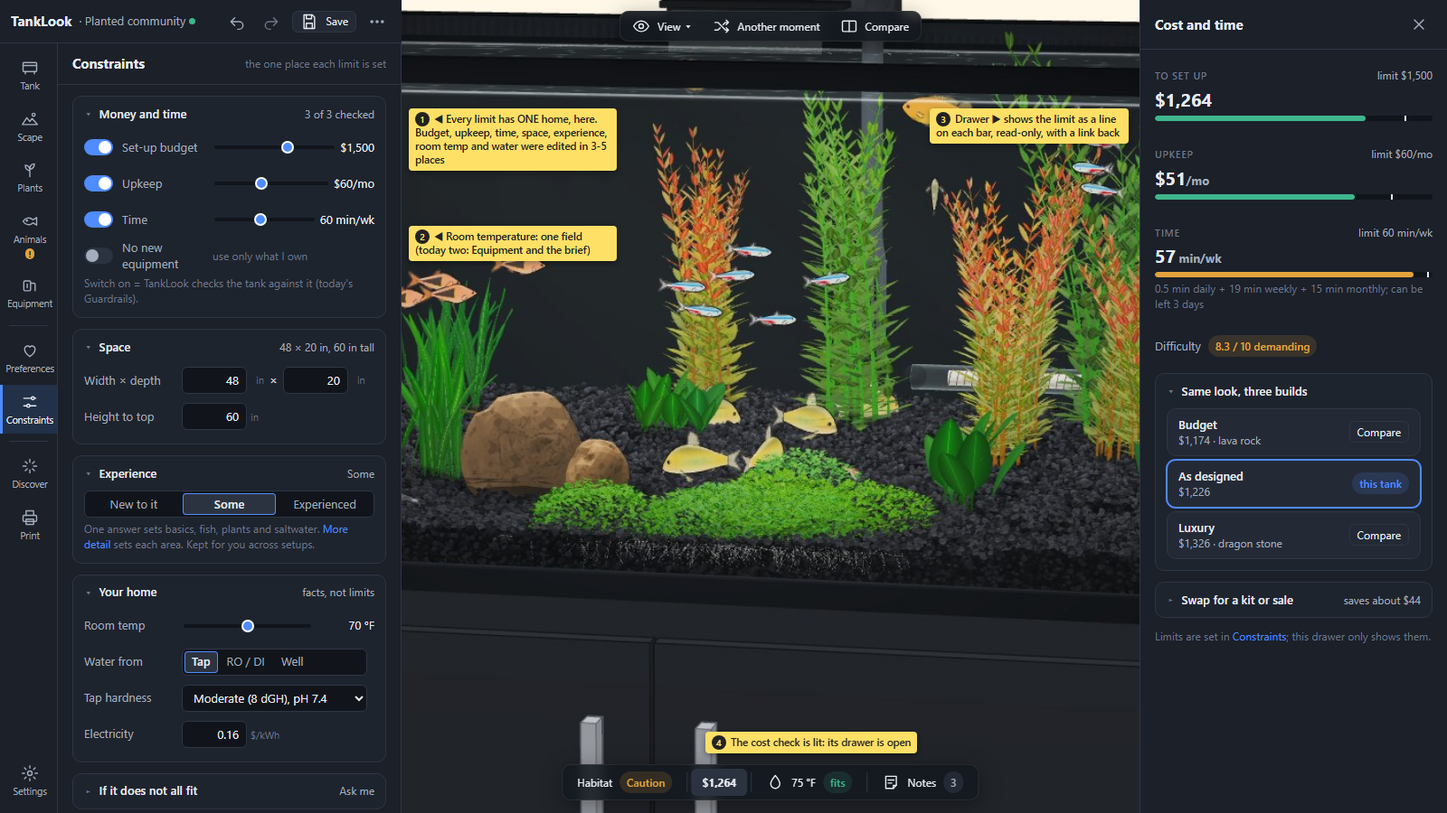
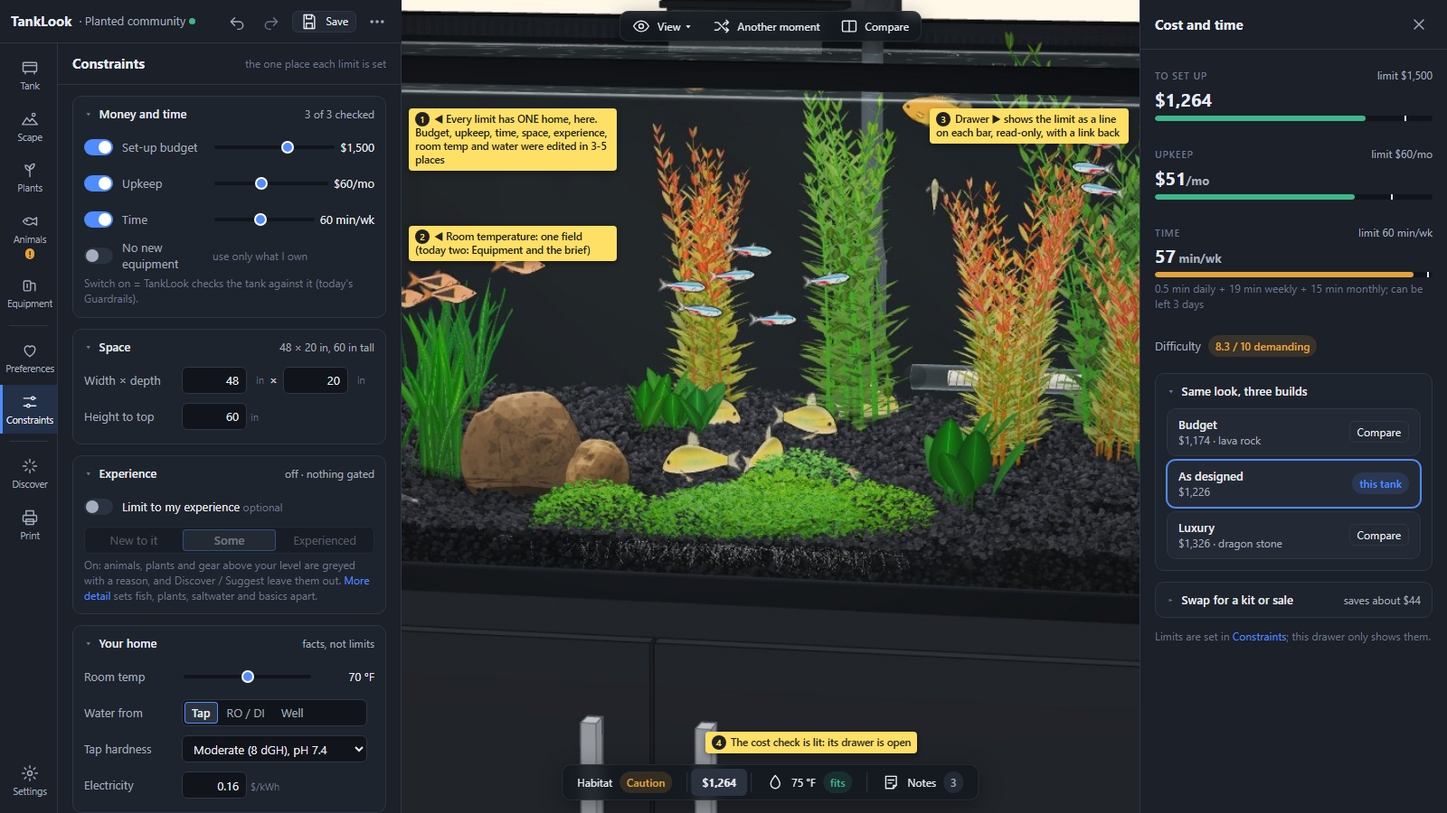
UI2: Nathan's decision-1 answers (11-13): every-level user, six jobs, care guidance out of scope
1 rewritten (user, jobs Plan / Evaluate / Explore / Learn / Best fit / Money, out-of-scope
list) + 1a how the UI adapts without a beginner mode; Build plan preset / sheet cut; A/B
screen kept as Discover > This or that (feeding best-fit search = decision 15); experience
is an optional constraint gating animals, plants and gear (3, P10 with the missing plant /
gear difficulty data, decision 16). Shots 04 and 08 updated.

diff --git a/research/design/ui2/08-print-shopping-list.html b/research/design/ui2/08-print-shopping-list.html
@@ -5,7 +5,7 @@
   .app { display: grid; height: 100vh; grid-template-columns: var(--rail-w) var(--panel-w) 1fr; grid-template-rows: var(--header-h) 1fr; grid-template-areas: "head head view" "rail panel view"; }
   .app > header { grid-area: head; } .app > .rail { grid-area: rail; } .app > .panel { grid-area: panel; }
   .desk { grid-area: view; background: #3a3f48; overflow: hidden; display: grid; justify-items: center; padding-top: 22px; }
-  .presets { display: grid; grid-template-columns: 1fr 1fr; gap: var(--s2); }
+  .presets { display: grid; grid-template-columns: 1fr 1fr 1fr; gap: var(--s2); }
   .preset { padding: var(--s2) var(--s3); }
   .tick { display: flex; align-items: center; gap: var(--s2); min-height: 30px; }
   .box { width: 16px; height: 16px; border-radius: 4px; border: 1.5px solid var(--text-3); display: inline-grid; place-items: center; font-size: 11px; }
@@ -32,14 +32,13 @@ const tk = (on, l, h = '') => `<div class="tick"><span class="box ${on ? 'on' : 
 const r = (q, n, w, p) => `<tr><td class="q">${q}</td><td>${n}</td><td class="w">${w}</td><td class="p">${p}</td></tr>`;
 document.getElementById('app').innerHTML = apphead() + rail('print', {animals: '!'}) + `
 <section class="panel">
-  <div class="sec-head"><h2>Print</h2><span class="hint">one page builder, four presets</span></div>
+  <div class="sec-head"><h2>Print</h2><span class="hint">one page builder, three presets</span></div>
   <div class="sec-body">
     <div class="cap">What to print</div>
     <div class="presets">
       <div class="card preset sel"><div class="t">Shopping list</div><div class="m">what to buy, what you have</div></div>
-      <div class="card preset"><div class="t">Setup sheet</div><div class="m">steps, bags, rock, layout</div></div>
+      <div class="card preset"><div class="t">Setup sheet</div><div class="m">bags, rock, layout, amounts</div></div>
       <div class="card preset"><div class="t">Full report</div><div class="m">picture, checks, costs, notes</div></div>
-      <div class="card preset"><div class="t">Build plan</div><div class="m">order of work, by week</div></div>
     </div>
     <div class="group open"><div class="gh">Parts <span class="sum">7 of 9</span></div><div class="gb">
       ${tk(1, 'Tank and stand')}${tk(1, 'Equipment')}${tk(1, 'Substrate and rock', 'bag size 20 lb')}${tk(1, 'Plants')}${tk(1, 'Animals')}
@@ -68,7 +67,7 @@ document.getElementById('app').innerHTML = apphead() + rail('print', {animals: '
 </div></div>`;
 </script>
 <div style="position:absolute;inset:0;pointer-events:none">
-  <div class="note" data-n="1" style="top:100px;left:452px;max-width:200px">&#9664; One Print section replaces Report, Setup sheet, Plan sheet and Build plan sheet (four pages, five buttons today)</div>
+  <div class="note" data-n="1" style="top:100px;left:452px;max-width:200px">&#9664; One Print section replaces Report, Setup sheet and Plan sheet. Build plan dropped: care guidance is out of scope (Nathan 11-13)</div>
   <div class="note" data-n="2" style="top:330px;left:452px;max-width:200px">&#9664; A preset just ticks parts; any tick can change</div>
   <div class="note" data-n="3" style="top:690px;right:20px;max-width:200px">Already owned: its own group at $0, not in the total (shot 05's owned heater)</div>
   <div class="note" data-n="4" style="top:40px;right:20px;max-width:200px">Live paper preview where the tank view was; numbers are mockup figures</div>

diff --git a/research/design/ui2/04-constraints-and-cost.html b/research/design/ui2/04-constraints-and-cost.html
@@ -30,9 +30,10 @@ document.getElementById('app').innerHTML = apphead() + rail('limits', {animals: 
       <div class="row"><span class="lbl">Width &times; depth</span><div style="display:flex;gap:6px;align-items:center"><input class="input num" value="48"><span class="unit">in</span> &times; <input class="input num" value="20"><span class="unit">in</span></div><span></span></div>
       <div class="row"><span class="lbl">Height to top</span><div><input class="input num" value="60"><span class="unit">in</span></div><span></span></div>
     </div></div>
-    <div class="group open"><div class="gh">Experience <span class="sum">Some</span></div><div class="gb">
-      <div class="seg full"><button>New to it</button><button class="on">Some</button><button>Experienced</button></div>
-      <div class="hint">One answer sets basics, fish, plants and saltwater. <span class="link">More detail</span> sets each area. Kept for you across setups.</div>
+    <div class="group open"><div class="gh">Experience <span class="sum">off &middot; nothing gated</span></div><div class="gb">
+      <div class="lim" style="grid-template-columns:34px 1fr"><span class="toggle"></span><span>Limit to my experience <span class="hint">optional</span></span></div>
+      <div class="seg full" style="opacity:.4"><button>New to it</button><button class="on">Some</button><button>Experienced</button></div>
+      <div class="hint">On: animals, plants and gear above your level are greyed with a reason, and Discover / Suggest leave them out. <span class="link">More detail</span> sets fish, plants, saltwater and basics apart.</div>
     </div></div>
     <div class="group open"><div class="gh">Your home <span class="sum">facts, not limits</span></div><div class="gb">
       <div class="row"><span class="lbl">Room temp</span><input class="slider" type="range" value="50"><span class="val">70 &deg;F</span></div>

diff --git a/research/design/ui2-screen-map.md b/research/design/ui2-screen-map.md
@@ -9,56 +9,61 @@ Design only, no app code. Built from `research/design/ui1-inventory.md` (UI1, bu
 | `research/screens/UI2/01-editor-desktop.png` | Main editor, 1600 x 900: header, rail, Tank section open (a commercial tank: its size is read-only), view controls top middle, check bar along the bottom |
 | `research/screens/UI2/02-editor-phone.png` | Same at 390 x 844: tank on top, check strip, Animals as a bottom sheet, tab bar |
 | `research/screens/UI2/03-split-desktop.png` | Compare: two tanks, one shared control cluster over the seam, "Editing A / B / Both" in the panel, each tank its own check bar |
-| `research/screens/UI2/04-constraints-and-cost.png` | Constraints section open (the one home of every limit) with the Cost and time drawer open on the right |
+| `research/screens/UI2/04-constraints-and-cost.png` | Constraints section open (the one home of every limit; Experience shown as an optional constraint, off) with the Cost and time drawer open on the right |
 | `research/screens/UI2/05-equipment-heater.png` | Equipment > Heater: **I own** and **Buy** groups, one item locked "Use this one for sure" (Nathan 11-13) |
 | `research/screens/UI2/06-tank-picker.png` | Tank > Choose a tank: **Custom tanks** and **Commercial tanks** groups, both closed at first (Nathan 11-13); `06b-tank-picker-open.png` = the same with both open |
 | `research/screens/UI2/07-custom-tank-maker.png` | Custom tank maker as **its own workspace**: an empty tank on a plain floor (real render), dimension labels, gallons and filled weight, price estimate with "how" and your own price; the setup is untouched until Save |
-| `research/screens/UI2/08-print-shopping-list.png` | Print section: four presets (Shopping list selected), part ticks, Print / .txt / .csv, live paper preview with the **Already owned** group at $0 (decision 5) |
+| `research/screens/UI2/08-print-shopping-list.png` | Print section: three presets (Shopping list selected; Build plan dropped 11-13), part ticks, Print / .txt / .csv, live paper preview with the **Already owned** group at $0 (decision 5) |
 
 ## 1. Who and what for
 
-**The user:** someone planning a real home aquarium (first tank, or a hobbyist planning the next one) who wants to see it true to life in their own room, know the animals will be well, and know what it costs in money and time before buying anything. I found no sentence of Nathan's naming the user; this is read from what he has asked for (room and person in the scene, finished price per size, owned gear, limits, welfare checks). Decision 1 asks him to confirm or correct it.
+**The user (Nathan 11-13, `research/design/w1-ab-context.md` "Nathan's answers"):** "anyone who owns or is interested in aquariums", at **every** experience level. The app adapts so a brand-new hobbyist and someone with 20 tanks both feel at home and both get something useful (how: §1a). It offers what an AI chatbot cannot: a true-to-life design you can change, with checks and costs worked out on it.
 
 **The jobs (everything on screen serves one):**
 
 | Job | One line |
 |---|---|
-| J1 Start | Get to a tank on screen fast: a ready-made, a kit, a blank tank of my size in my room, or a tank built round an animal I want. |
-| J2 Build | Change anything by hand (tank, stand, scape, plants, animals, gear) and see it drawn true. |
-| J3 Check | Know whether it is good for the animals and what it asks of me ($ set-up, $ / month, minutes / week), against my limits. |
-| J4 Compare | Put two versions side by side and see what differs (budget vs luxury, my idea vs a suggestion). |
-| J5 Take away | Save, share, and print what to buy and how to set it up. |
+| **Plan** | Design a tank that fits my needs, preferences and limits, and that I like: start from anything, change anything, see it drawn true. |
+| **Evaluate** | Know whether it works: good for the animals and plants, what it asks of me ($ set-up, $ / month, minutes / week), against my limits; two versions side by side. |
+| **Explore** | Be inspired: ideas I would not have had (Discover, starters, the A/B "this or that" screen). |
+| **Learn** | Understand aquariums through my own design: every grey, warning and number says why (light, water, space, tankmates). |
+| **Best fit** | Find the best tank for me: the size, setup and stocking that suit my room, taste and limits (picker, Suggest, Discover). |
+| **Money** | An accurate budget; deal sweeps; cheaper gear that does the same job; start from, or convert to, a bundle when it saves money. Ends in the shopping list. |
 
-Ideas (Discover, Suggest) are not a job of their own: they are a faster way to do J1 and J2, so they sit inside them.
+**Out of scope (Nathan 11-13):** care and build-plan guidance (how to cycle, when to add animals, how to look after fish). So: the **Build plan** print preset and the Build plan sheet are dropped (§2b row 18), the Coach stays dropped, and the Notes drawer keeps verdicts on the design (fits / does not fit, and why) but no how-to-care text. Time per week and "can be left N days" stay: they evaluate the design, they are not care instructions.
+
+### 1a. How the UI adapts to the user's level (no separate beginner mode)
+
+One interface; it adapts through **defaults, what is shown first, and memory**, never by hiding features behind a mode. (1) **Defaults help the new user and cost the expert nothing:** "Fits this tank" is on in the Animals and Plants lists, the equipment preset ladder fills sensible gear, and a new tank shows the 5-tick **Get started** checklist, which can be dismissed for good. (2) **Summary first, detail one click away:** every group folds to a one-line summary (shot 01), the check bar shows verdict pills while the numbers live in the drawers (shots 01, 04), and advanced groups (Terrain, Light map / PAR, glass, custom substrate blends) start closed. (3) **The app remembers what you open:** groups and filters stay as you left them (per browser), so someone who always works in Terrain or the light map opens them once. (4) **Fast paths for experienced users:** typed values on every slider, search in every library, multi-select, keyboard shortcuts, the custom tank maker, "I own" lists. (5) **Experience is an optional constraint, off by default** (§3; shot 04): someone who wants a lower chance of failure turns it on and lists grey by their level; someone who wants a hard tank leaves it off and nothing is gated. (6) **Every grey and warning says why in one line** (shots 02, 03: "tight with 2"), which teaches the beginner and confirms the expert.
 
 ## 2. Screen map
 
-**Summary.** One editor screen, always the same shape: **header** (name, Undo / Redo / Save, file menu) over a **rail** of section icons; one **panel** showing one section at a time; the **viewer** with one shared control cluster at the top middle and one **check bar** at the bottom (Habitat, Cost, Water, Notes); clicking a check opens a **drawer** on the right that pushes the view aside instead of covering the tank. Plus one Start screen, a few dialogs and one Print screen. Today's 8-9 menu sections + ~60 overlays become 9 sections, 4 drawers, 1 Start screen, 4 dialogs, 1 Print screen. Of UI1's 56 rows: 27 KEEP (most moved), 20 MERGE, 5 HIDE, 4 CUT.
+**Summary.** One editor screen, always the same shape: **header** (name, Undo / Redo / Save, file menu) over a **rail** of section icons; one **panel** showing one section at a time; the **viewer** with one shared control cluster at the top middle and one **check bar** at the bottom (Habitat, Cost, Water, Notes); clicking a check opens a **drawer** on the right that pushes the view aside instead of covering the tank. Plus one Start screen, a few dialogs and one Print screen. Today's 8-9 menu sections + ~60 overlays become 9 sections, 4 drawers, 1 Start screen, 4 dialogs, 1 Print screen. Of UI1's 56 rows: 28 KEEP (most moved), 19 MERGE, 4 HIDE, 5 CUT.
 
 ### 2a. The new screens
 
 | New surface | Job | How you get there | Holds |
 |---|---|---|---|
-| **Start** | J1 | first visit; header ... > New | four doors: Blank tank (kind, then the tank picker in your room), Starters and kits (starters, deals and bundles as tabs), Open saved, From an animal I want |
+| **Start** | Plan, Explore | first visit; header ... > New | four doors: Blank tank (kind, then the tank picker in your room), Starters and kits (starters, deals and bundles as tabs), Open saved, From an animal I want |
 | **Editor** | all | after Start; resume | header + rail + panel + viewer + check bar + drawer |
-| Header | J5 | always (top of the panel column) | TankLook, project name (click to rename), saved dot, Undo, Redo, Save, `...` = New / Open / Save as / Share link / Download |
-| Rail | J2 | always, also when the panel is folded | Tank, Scape, Plants, Animals, Equipment / Preferences, Constraints / Discover, Print / Settings (bottom): 9 sections + Settings |
-| Section **Tank** | J2 | rail | **Tank model**: either a **commercial tank** (catalogue product; shape, size, glass and rim fixed, shown read-only) or a **custom tank** (yours, from the custom tank maker). The picker (docked in the panel, live in the room) has two groups, Custom tanks and Commercial tanks, **both closed at first** (each header shows what is inside), plus New custom tank; any tank row can carry the Owned pill and the "Use this one for sure" lock, as in Equipment. To change a product's size: "Make a custom tank from this" (a copy), never an edit of the product. **Stand** with I own / Buy groups. Then Sits on (floor / stand / my own furniture), Lid and top, Background, **Room** (wall, ceiling, person) |
-| **Custom tank maker** (own workspace) | J2 | Tank > New custom tank, Edit on a custom tank, "Make a custom tank from this" on a commercial one | full-window workspace over the editor: an **empty tank on a plain floor** (no stand, gear, scape or room), dimension labels, gallons, filled weight, footprint. Name, shape, size, glass, rim, Price (estimate + one-line "how" + **Use my own price**), I own this tank. Cancel / Save to my tanks / Save and use in this setup; optional **Preview in my setup** (shows it in your room for a moment, then returns; recommended so the size can be judged against the room). The current setup is not edited while the maker is open |
-| Section **Scape** | J2 | rail | Substrate (type, blend, brush), Terrain (slopes, corners), Hardscape and Decor library, placed pieces |
-| Section **Plants** | J2 | rail | library (grayed by light), placed plants, growth over time |
-| Section **Animals** | J2 | rail | search, filters ("Fits this tank" on by default in Guided), stocking list with counts, Water look (level, tint) |
-| Section **Equipment** | J2 | rail | preset ladder (Walstad ... high-tech) at the top; then one **sub-menu per category** (Filter, Heater, Light, CO2, Air, UV, ... ; saltwater adds its own). Each category: the item in use now, then two groups, **I own** (your items, add your own, $0) and **Buy** (catalogue products), and on every item an independent **Use this one for sure** lock. Light also holds Lighting details, Light map / PAR |
-| Section **Preferences** | J1/J2 | rail | looks you like (cards, browse looks), don't-want list (R26 split) |
-| Section **Constraints** | J3 | rail; every "limit" line elsewhere links here | Money and time (incl. **No new equipment**: a spending limit), Space, Experience, Your home (room temp, water, electricity), If it does not all fit, "Fill in what I left open" (Suggest) |
-| Section **Discover** | J1/J2 | rail; "Ideas for ..." button in each section header opens it scoped to that section | Finish my setup / fill this section / remix; preview in the viewer; Apply / Keep |
-| Section **Print** | J5 | rail | one page builder with presets: Shopping list, Setup sheet, Full report, Build plan; tick parts; Print / .txt / .csv. The shopping list has an **Already owned** group ($0) apart from what to buy |
+| Header | Plan | always (top of the panel column) | TankLook, project name (click to rename), saved dot, Undo, Redo, Save, `...` = New / Open / Save as / Share link / Download |
+| Rail | all | always, also when the panel is folded | Tank, Scape, Plants, Animals, Equipment / Preferences, Constraints / Discover, Print / Settings (bottom): 9 sections + Settings |
+| Section **Tank** | Plan, Best fit | rail | **Tank model**: either a **commercial tank** (catalogue product; shape, size, glass and rim fixed, shown read-only) or a **custom tank** (yours, from the custom tank maker). The picker (docked in the panel, live in the room) has two groups, Custom tanks and Commercial tanks, **both closed at first** (each header shows what is inside), plus New custom tank; any tank row can carry the Owned pill and the "Use this one for sure" lock, as in Equipment. To change a product's size: "Make a custom tank from this" (a copy), never an edit of the product. **Stand** with I own / Buy groups. Then Sits on (floor / stand / my own furniture), Lid and top, Background, **Room** (wall, ceiling, person) |
+| **Custom tank maker** (own workspace) | Plan | Tank > New custom tank, Edit on a custom tank, "Make a custom tank from this" on a commercial one | full-window workspace over the editor: an **empty tank on a plain floor** (no stand, gear, scape or room), dimension labels, gallons, filled weight, footprint. Name, shape, size, glass, rim, Price (estimate + one-line "how" + **Use my own price**), I own this tank. Cancel / Save to my tanks / Save and use in this setup; optional **Preview in my setup** (shows it in your room for a moment, then returns; recommended so the size can be judged against the room). The current setup is not edited while the maker is open |
+| Section **Scape** | Plan | rail | Substrate (type, blend, brush), Terrain (slopes, corners), Hardscape and Decor library, placed pieces |
+| Section **Plants** | Plan, Learn | rail | library (grayed by light), placed plants, growth over time |
+| Section **Animals** | Plan, Learn | rail | search, filters ("Fits this tank" on by default in Guided), stocking list with counts, Water look (level, tint) |
+| Section **Equipment** | Plan, Money | rail | preset ladder (Walstad ... high-tech) at the top; then one **sub-menu per category** (Filter, Heater, Light, CO2, Air, UV, ... ; saltwater adds its own). Each category: the item in use now, then two groups, **I own** (your items, add your own, $0) and **Buy** (catalogue products), and on every item an independent **Use this one for sure** lock. Light also holds Lighting details, Light map / PAR |
+| Section **Preferences** | Plan, Best fit | rail | looks you like (cards, browse looks), don't-want list (R26 split) |
+| Section **Constraints** | Evaluate, Best fit, Money | rail; every "limit" line elsewhere links here | Money and time (incl. **No new equipment**: a spending limit), Space, Experience, Your home (room temp, water, electricity), If it does not all fit, "Fill in what I left open" (Suggest) |
+| Section **Discover** | Explore, Best fit | rail; "Ideas for ..." button in each section header opens it scoped to that section | Finish my setup / fill this section / remix; preview in the viewer; Apply / Keep |
+| Section **Print** | Money, Plan | rail | one page builder with presets: Shopping list, Setup sheet, Full report (Build plan dropped: care guidance is out of scope); tick parts; Print / .txt / .csv. The shopping list has an **Already owned** group ($0) apart from what to buy |
 | **Settings** | - | rail bottom | US / Metric, Rules (Guided / Sandbox), Graphics, Help, Scene data (JSON) |
-| Viewer cluster | J2/J4 | always, top middle | View (camera, show, viewpoint map, export PNG), Another moment, Compare / Views linked / End compare |
-| Check bar | J3 | always, bottom of each view | Habitat (verdict pill), Cost ($ set-up, $/mo, min/wk), Water (deg F, fits), Notes (count) |
-| Drawers | J3 | click a check; click an item in the tank | **Habitat check**, **Cost and time**, **Water**, **Notes**, **Selection** (selected animal / piece: numbers, sex, copies, delete). One open at a time. |
-| Dialogs | J1/J5 | as needed | Save as / Share, Replace this project?, Guardrail-off list (inside Constraints, not a dialog), Sump size (inside Equipment) |
-| Toasts | J2 | after an edit | price notice (edit lost a sale price, Undo), owned gear no longer fits (link to that Equipment category) |
+| Viewer cluster | Plan, Evaluate | always, top middle | View (camera, show, viewpoint map, export PNG), Another moment, Compare / Views linked / End compare |
+| Check bar | Evaluate, Learn | always, bottom of each view | Habitat (verdict pill), Cost ($ set-up, $/mo, min/wk), Water (deg F, fits), Notes (count) |
+| Drawers | Evaluate, Learn, Money | click a check; click an item in the tank | **Habitat check**, **Cost and time**, **Water**, **Notes**, **Selection** (selected animal / piece: numbers, sex, copies, delete). One open at a time. |
+| Dialogs | Plan | as needed | Save as / Share, Replace this project?, Guardrail-off list (inside Constraints, not a dialog), Sump size (inside Equipment) |
+| Toasts | Plan, Money | after an edit | price notice (edit lost a sale price, Undo), owned gear no longer fits (link to that Equipment category) |
 
 ### 2b. Where each of today's surfaces goes (every UI1 row)
 
@@ -81,7 +86,7 @@ Ideas (Discover, Suggest) are not a job of their own: they are a faster way to d
 | 15 | My equipment dialog | MERGE | into the **I own** group of each Equipment category (and Tank / Stand in the Tank section); "No new equipment" moves to Constraints. Nathan 11-13 replaced the 11-05 "separate menu" with this |
 | 16 | Setup sheet | MERGE | Print > Setup sheet preset |
 | 17 | Report | MERGE | Print > Full report preset |
-| 18 | Plan sheet / Build plan sheet | MERGE | Print > Build plan preset |
+| 18 | Plan sheet / Build plan sheet | CUT | care / build-order guidance is out of scope (Nathan 11-13); the Plan sheet's shopping part is the Shopping list preset |
 | 19 | Suggest a setup | KEEP | Constraints > "Fill in what I left open" (limits read from Constraints, no own fields) |
 | 20 | Why-not card | KEEP | inside Suggest results |
 | 21 | Setup brief card | MERGE | its lines become the group summaries of Preferences and Constraints |
@@ -116,12 +121,12 @@ Ideas (Discover, Suggest) are not a job of their own: they are a faster way to d
 | 50 | Phone layout | KEEP | redesigned (§6) |
 | 51 | Guided setup (dormant) | HIDE | decision 4: becomes a "Get started" checklist in the panel that opens the real sections |
 | 52 | Explore Complete Setups (dormant) | HIDE | decision 4: merge into Discover "Whole tank" |
-| 53 | A/B Discover (`?ab=1`) | HIDE | stays behind `?ab=1`; Nathan 11-13 keeps the decision open (not dropped yet) |
+| 53 | A/B Discover (`?ab=1`) | KEEP | Nathan 11-13: "a very old feature and definitely should stay". Lives as **Discover > This or that** (two habitats side by side, Prefer A / B, Make A mine), no `?ab=1` needed. Open: whether it feeds the automated best-fit search (decision 15) |
 | 54 | Coach / Guide me (dormant) | CUT | decision 4: the checklist replaces it |
 | 55 | Animal-first stocking (dormant) | HIDE | decision 4: Start > "From an animal I want" |
 | 56 | Sandbox flags bar | CUT | flag already off; rules switch is in Settings |
 
-Count: KEEP 27, MERGE 20, HIDE 5, CUT 4 = 56. The three dormant HIDE rows (51, 52, 55) get a door only if Nathan says yes (decision 4).
+Count: KEEP 28, MERGE 19, HIDE 4, CUT 5 = 56. HIDE = row 43 (viewpoint map behind a switch) and the dormant rows 51, 52, 55, which get the doors decision 4 approved (11-13).
 
 ## 3. One home per setting
 
@@ -132,7 +137,7 @@ Rule (Nathan 2026-11-05, kept): **a shortcut may open the home; it may not hold 
 | Set-up budget | quick prefs, Your limits, cost Guardrails, Suggest (4) | Constraints > Money and time | Cost drawer (limit line on the bar), Suggest, Print |
 | Upkeep $ / month, time / week | same 4 | Constraints > Money and time | Cost drawer |
 | Space (W x D x H) | Your limits, Habitat "Set my space", cost panel, Suggest (4) | Constraints > Space | Habitat drawer, tank picker (filters by it), Suggest |
-| Experience | **two settings that can disagree:** (a) brief `preferences.experience` 0-2 (Your limits; drives `layout.expertise` animal graying, starter / Another moment stocking via `whyAnimal`, Suggest ranking and `experienceNote`); (b) profile `UserProfile.skill` per area, fundamentals / fish / planted / salt (+ terrarium), 0-2 (cost panel Your situation; drives the difficulty bar `skillMul`, `whyAnimal` warnings `demand/engine.ts:201`, monthly losses `engine.ts:269`); plus hidden Care level | Constraints > Experience. **Model: per-area levels** (fundamentals, fish, planted, salt; terrarium hidden in aquarium scope), each New to it / Some / Experienced (0-2, the scale both use today). The panel shows ONE answer that sets every area; "More detail" opens the per-area rows (then the one answer reads "Mixed"). It is about the person, so it is stored once per browser and applies to every setup (not inside a scene or share link). **Every consumer reads the area that fits:** an animal's checks use its area (fish / salt) blended with fundamentals the way `skillMul` already does; plants use planted; Suggest ranks each candidate by its area; `layout.expertise` and `experienceNote` read the same | Cost drawer (difficulty), Animals list (graying), Suggest notes |
+| Experience | **two settings that can disagree:** (a) brief `preferences.experience` 0-2 (Your limits; drives `layout.expertise` animal graying, starter / Another moment stocking via `whyAnimal`, Suggest ranking and `experienceNote`); (b) profile `UserProfile.skill` per area, fundamentals / fish / planted / salt (+ terrarium), 0-2 (cost panel Your situation; drives the difficulty bar `skillMul`, `whyAnimal` warnings `demand/engine.ts:201`, monthly losses `engine.ts:269`); plus hidden Care level | Constraints > Experience, an **optional constraint, off by default** (Nathan 11-13: "a possible constraint that the user can set if they choose to"). **Off:** nothing is gated by experience; the difficulty bar and expected losses are shown for an average keeper ("Some") and say so. **On:** per-area levels (fundamentals, fish, planted, salt; terrarium hidden in aquarium scope), each New to it / Some / Experienced; one answer sets every area, "More detail" sets each. It gates **animals, plants and gear** (grey with a one-line why; Discover / Suggest leave gated items out), and the difficulty bar and losses use the real levels. Stored once per browser (about the person, not the tank) | Cost drawer (difficulty), Animals / Plants / Equipment lists (graying when on), Suggest notes |
 | Room temperature | Equipment `#tRoom`, Your limits; **stored twice** (`tech.roomC`, brief) | Constraints > Your home | Equipment heater row ("room 70 deg F, edit"), Water drawer. Engine: store once in the brief, migrate old saves (step P5) |
 | Water source, hardness, pH | cost panel, Your limits | Constraints > Your home | Water drawer |
 | Electricity $/kWh | cost panel | Constraints > Your home | Cost drawer |
@@ -156,7 +161,7 @@ Rule (Nathan 2026-11-05, kept): **a shortcut may open the home; it may not hold 
 | Guided setup (World / Equipment / Limits / Starting point) | 755 | **MERGE** into a "Get started" checklist at the top of the panel for a new tank: 5 ticks (tank, scape, plants, animals, gear), each opens the real section | Nathan 11-05: "Guided setup becomes the tool walking you through the EXISTING menus"; a wizard is a second home for every setting |
 | Visual Discovery (browse looks grid) | 513 | **MERGE** into Preferences > Browse looks | already agreed 11-05 (folded into Quick Setup's browse view) |
 | Explore Complete Setups | 623 | **MERGE** into Discover > "Whole tank" | same job as Discover's "Finish my setup" with a gallery view |
-| A/B Discover screen (`?ab=1`) | 1,123 | **OPEN** (Nathan 11-13: not dropped yet); stays behind `?ab=1`, untouched by the new shell until he decides | recommendation was drop: Compare (split) does two tanks side by side with the real editor |
+| A/B Discover screen (`?ab=1`) | 1,123 | **KEEP** (Nathan 11-13) as Discover > "This or that" | an old feature he wants kept; whether its picks feed the automated best-fit search is decision 15 |
 | Coach / Guide me | 353 | **DROP** | the checklist does its job without a second voice |
 | Animal-first stocking ("An animal I want") | 386 + 5 files | **CARRY** as Start > "From an animal I want" and Animals > "Plan around this animal" | a real way people start a tank; logic is pure and tested (`stockPlanLogic`, 25 tests) |
 | Quick Setup block (Style, Shuffle, densities, care gates) | in `panels.ts` | **DROP** the block; parts move (row 35) | each part has a better home |
@@ -211,7 +216,7 @@ The new shell lives beside the old one behind `?ui=2` (own `index2.html` entry, 
 | P8 Gear model: per category an owned list (in the brief), the item in use, and a "use for sure" lock per item; Discover / Suggest / generator read the lock (must use) and the owned list (preferred, $0). Folds `ownedGear.ts` `applyOwned` / `syncEquipment` and the owned flags on scene gear into it; old saves migrate | `ownedGear.ts`, `scene/tech`, Discover locks | `scene/gearOwn.ts` | M |
 | P9 Custom tank library: a custom-tank spec (shape, L / H / D, shape dims, glass, rim, name) saved per browser across setups (LS `tanklook.customTanks`, like the scene library); a setup holds its own copy plus the library id and version. Library edit: setups keep their copy and show "Updated in my tanks: use the new version?". Library delete: setups keep their copy ("Save to my tanks again"). Share link / file carry the copy. Product tanks become read-only (P1's rules apply only in the maker). **Migration:** a saved scene whose dimensions differ from its product, or that has no product, gets an auto-named custom tank on load (e.g. "Custom 36 x 18 x 16 in (from Aqueon 40 breeder)"), added to the library and referenced. **Maker:** its own workspace with its own scratch scene (empty tank, plain floor); the setup's Store is not touched until Save, Cancel discards the scratch scene; Preview swaps the tank into the setup's view without an undo entry and swaps back. **Price:** the spec carries an optional `priceUsd` (the user's own price); the demand engine uses it as the tank row price when present (marked as the user's figure), otherwise today's estimate. **Engine follow-up (not now):** the estimate should count glass thickness, low-iron, rimless and shape (bow, corner, ...), not just gallons | `panels.ts` `setTank` / `shapeDims`, `tankPick.ts`, `scene/` tank | `scene/customTank.ts` | M |
 | P5 One home per limit in the data: profile from LS `tanklook.demand` into the brief (except experience, which stays per browser: P10); room temp stored once; migrate old saves | `demandPanel.ts`, `scene/tech.ts`, brief | `scene/brief.ts` | M |
-| P10 One experience model: delete brief `preferences.experience` and `layout.expertise` as stored values; every consumer (`whyAnimal` gating, starter / Another moment stocking, Suggest ranking, `experienceNote`, `skillMul`, losses) takes the per-area `skill` from one `experienceOf(area)` read. **Migration:** a saved profile with any non-zero `skill` keeps it (it is the more detailed answer); otherwise a scene's `preferences.experience` sets every area to its value, once, on load; old share links still read `preferences.experience` as a fallback for one release | `scene/brief.ts`, `scene/layout`, `demand/engine.ts`, `demand/suggest.ts`, `demandPanel.ts` | `demand/experience.ts` | M |
+| P10 One optional experience constraint: an on / off switch (off by default) plus per-area `skill`; delete brief `preferences.experience` and `layout.expertise` as stored values; every consumer (`whyAnimal` gating, starter / Another moment stocking, Suggest ranking, `experienceNote`, `skillMul`, losses) reads one `experienceOf(area)` that returns "no gate" when off. **Gating data:** animals have it (`data/care.ts` `care: 1-3` per species). Plants have only a tank-fit check (`scene/plantfit.ts` `whyNot`: light band, CO2 / fertiliser need vs the tank's tech level); **missing:** a per-plant keeper difficulty 1-3 (e.g. carpets, red stems, crypt melt), one value per plant. Gear has **no** difficulty data; **missing:** a small table per gear kind / type (e.g. pressurised CO2, sump, canister, RO/DI, auto top-off, dosing pump, chiller), not per product. Both tables are estimates like `care.ts`. **Migration:** a saved profile with any non-zero `skill` keeps it and turns the constraint on; otherwise a scene's `preferences.experience` > 0 sets every area and turns it on; else off. Old share links read `preferences.experience` as a fallback for one release | `scene/brief.ts`, `scene/layout`, `demand/engine.ts`, `demand/suggest.ts`, `demandPanel.ts`, `scene/plantfit.ts`, gear catalogue | `demand/experience.ts` + `data/plantCare.ts`, `data/gearCare.ts` | M (+ S per data table) |
 | P6 Habitat helpers (`bar`, `topBy`, `tileState`, ...) | `fullnessTile.ts` | `ui/logic/habitat.ts` | S |
 | P7 File ops (library, open example / shared, save / save as) | `panels.ts` 168-494 | `ui/logic/files.ts` | M |
 
@@ -230,7 +235,7 @@ The old shell is switched to call these as they land, so both shells share one c
 | 7 | Scape + Plants + brush / group bars | L | P3 |
 | 8 | View, Settings (units, rules, graphics), Print | M | - |
 | 9 | Compare (split) | L | `sideStore` as is |
-| 10 | Discover + checklist (+ animal-first if yes) | M | - |
+| 10 | Discover (incl. the A/B "This or that" mode) + checklist + animal-first door | M | - |
 | 11 | Phone and tablet pass | M | built mobile-aware from step 1; this is the check |
 | 12 | Flip default to the new shell; `?ui=1` keeps the old for 2 weeks; then delete `index.html` markup, `panels.ts`, old `style.css`, dropped dormant code | M | Nathan's OK |
 
@@ -246,11 +251,11 @@ The old shell is switched to call these as they land, so both shells share one c
 
 | # | Decision | Recommendation | Status |
 |---|---|---|---|
-| 1 | The user and the 5 jobs in §1: right? | Yes as written; correct the user line if you see it differently. | **OPEN**: Nathan wants to investigate further (11-13) |
+| 1 | The user and the jobs in §1 | (was: one planner persona, 5 jobs) | **ANSWERED 11-13**: anyone interested in aquariums, every level, the UI adapts (§1a); jobs Plan / Evaluate / Explore / Learn / Best fit / Money; care guidance out of scope. §1 rewritten |
 | 2 | Layout: rail + one section at a time + check bar at the bottom + right drawer that pushes the view (shots 01, 04)? | Yes. | APPROVED 11-13 |
 | 3 | The single homes in §3, incl. room temperature stored once and the cost panel's Guardrails / Your situation fields moving to Constraints? | Yes. | APPROVED 11-13 |
-| 4 | Dormant features: Guided -> checklist (merge), Visual Discovery -> Preferences (merge), Explore -> Discover (merge), A/B screen (drop), Coach (drop), Animal-first (carry, Start door)? | Yes to all six. | APPROVED 11-13 except the A/B screen: Guided -> checklist, Visual Discovery -> Preferences, Explore -> Discover, drop Coach, keep Animal-first; **A/B taste screen stays OPEN** (not dropped yet) |
-| 5 | Four printable pages become one Print section with four presets? | Yes. | **OPEN**: Nathan wants to see it first; mockup shot 08 (`research/screens/UI2/08-print-shopping-list.png`) |
+| 4 | Dormant features: Guided -> checklist (merge), Visual Discovery -> Preferences (merge), Explore -> Discover (merge), A/B screen (drop), Coach (drop), Animal-first (carry, Start door)? | Yes to all six. | APPROVED 11-13 except the A/B screen: Guided -> checklist, Visual Discovery -> Preferences, Explore -> Discover, drop Coach, keep Animal-first; **A/B taste screen KEPT** (Nathan 11-13: "definitely should stay"), as Discover > This or that |
+| 5 | Four printable pages become one Print section with presets (now three: Build plan dropped, care guidance out of scope)? | Yes. | **OPEN**: Nathan wants to see it first; mockup shot 08 (`research/screens/UI2/08-print-shopping-list.png`) |
 | 6 | Build the new shell with a small UI library (Preact, about 4 KB) instead of hand-wired DOM? It replaces the 420-line `sync()` with components that redraw from the Store. | Yes, Preact; vanilla TS is the fallback if you prefer no new dependency. | APPROVED 11-13 |
 | 7 | Add a DOM test environment (happy-dom) for the new shell, or keep node-only tests + screenshot proof per step? | Node-only + screenshots (keeps test runs light on this machine). | APPROVED 11-13 |
 | 8 | Compare: one "Editing A / B / Both" switch in the panel instead of an Edit tick per tab (shot 03)? | Yes. | APPROVED 11-13 |
@@ -259,6 +264,8 @@ The old shell is switched to call these as they land, so both shells share one c
 | 11 | R7, the Habitat check name: keep "Habitat check" in the new check bar? | Keep; the drawer title can carry the longer "Habitat check: is it good for the animals?". | APPROVED 11-13 |
 | 12 | Own / buy / lock (Nathan 11-13, shot 05): "I own" and "Buy" groups per category, an independent "Use this one for sure" lock, no My gear tab, "No new equipment" in Constraints. Confirm the shot matches what you meant? | Yes (already his call; the shot is the check). | APPROVED 11-13 |
 | 13 | Tanks (Nathan 11-13, shots 01, 06, 07): commercial tanks fixed; picker groups start closed; custom tanks from a maker that opens as **its own workspace** with an empty tank (setup untouched until Save; Cancel leaves everything as it was), with "Preview in my setup" as an optional step; custom tank price = estimate with a "how" line, or your own price used everywhere; library saved across setups, each setup keeps its own copy; old scenes with hand-edited product dims become auto-named custom tanks? | Yes to all, including Preview in my setup (the empty-tank view cannot show whether it suits the room). | APPROVED 11-13 |
-| 14 | Experience (Nathan asked what it affects): today two settings (brief 0-2: animal graying, starter stocking, Suggest; profile per area: difficulty bar, animal warnings, monthly losses) that can disagree. Merge into **per-area levels** set by one answer in Constraints ("More detail" for per-area), stored per browser, read by every consumer? | Yes: per-area keeps the real difference between keeping fish, plants and saltwater; one answer keeps it a single click for most people. | APPROVED 11-13 |
+| 14 | Experience (Nathan asked what it affects): today two settings (brief 0-2: animal graying, starter stocking, Suggest; profile per area: difficulty bar, animal warnings, monthly losses) that can disagree. Merge into **per-area levels** set by one answer in Constraints ("More detail" for per-area), stored per browser, read by every consumer? | Yes: per-area keeps the real difference between keeping fish, plants and saltwater; one answer keeps it a single click for most people. | APPROVED 11-13; **revised 11-13**: experience is an OPTIONAL constraint, off by default, gating animals, plants and gear when on (§3, P10) |
+| 15 | A/B "This or that": should its picks feed the automated best-fit search (Suggest / Discover ranking), or stay a manual taste tool? | Keep it manual for now; once the best-fit search is designed, feed A/B picks in as a preference signal (they say what you like, not what fits). | **OPEN** (Nathan 11-13: "still up in the air") |
+| 16 | Plant and gear difficulty data for the experience constraint (P10): add `plantCare` (1-3 per plant) and `gearCare` (1-3 per gear kind) as estimates like the animal table? | Yes; the gate does nothing for plants and gear without them. | open |
 
 Lane note: HANDOFF.md not edited (brief: commit only this lane's files); the coordinator adds the dated line.
